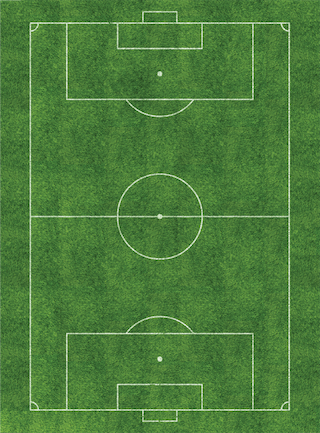
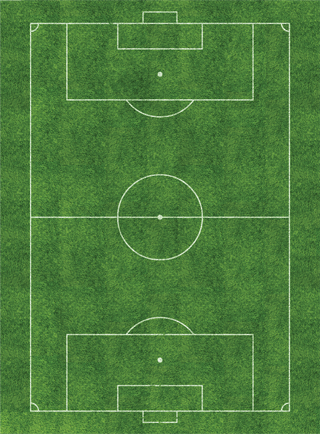
football field up size 1 px
320x434

diff --git a/src/scss/lineup/main.scss b/src/scss/lineup/main.scss
@@ -14,7 +14,7 @@ $player-height: 70px;
 
     .football-field {
         width: 100%;
-        height: 433px;
+        height: 434px;
         background-image: url("../img/lineup/football_field.png");
         background-size: cover;
         background-repeat: no-repeat;
